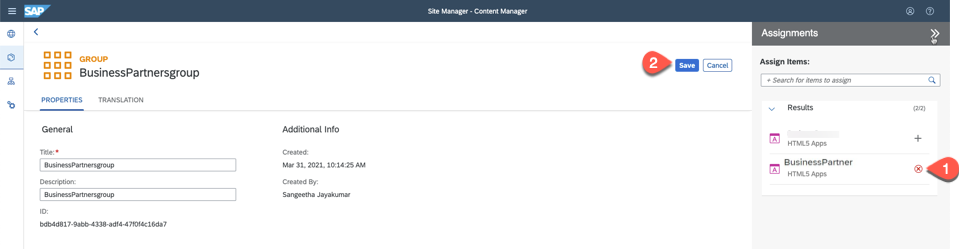
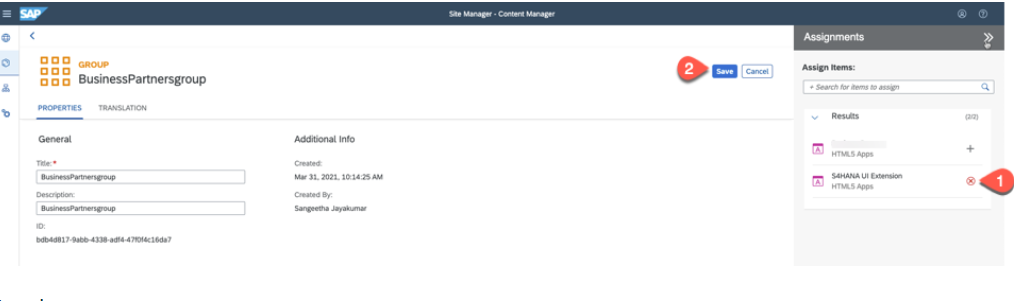
fix launchpad screenshots

diff --git a/mission/launchpad/README.md b/mission/launchpad/README.md
@@ -101,7 +101,7 @@ For more information, check [Expose HTML5 Applications in Launchpad](https://hel
 
    ![create Group2](./images/createGroup2.png)
    
-7. Now in the *Assignments* section, search for *S4 HANA* and add the listed HTML5 app by clicking **+** to the new group. Click **Save** to save the changes.
+7. Now in the *Assignments* section, search for *S4HANA* and add the listed HTML5 app by clicking **+** to the new group. Click **Save** to save the changes.
 
     ![add App to Group](./images/addApptoGroup.png)
 
@@ -117,7 +117,7 @@ For more information, check [Expose HTML5 Applications in Launchpad](https://hel
 
     ![edit Everyone Role2](./images/editEveryoneRole2.png)
    
-11. In the *Assignments* section, search for *BusinessPartner* and add the listed HTML5 app by clicking **+**. Click **Save** to save the changes.
+11. In the *Assignments* section, search for **S4HANA* and add the listed HTML5 app by clicking **+**. Click **Save** to save the changes.
 
     ![edit Everyone Role2](./images/editEveryoneRole3.png)
    
